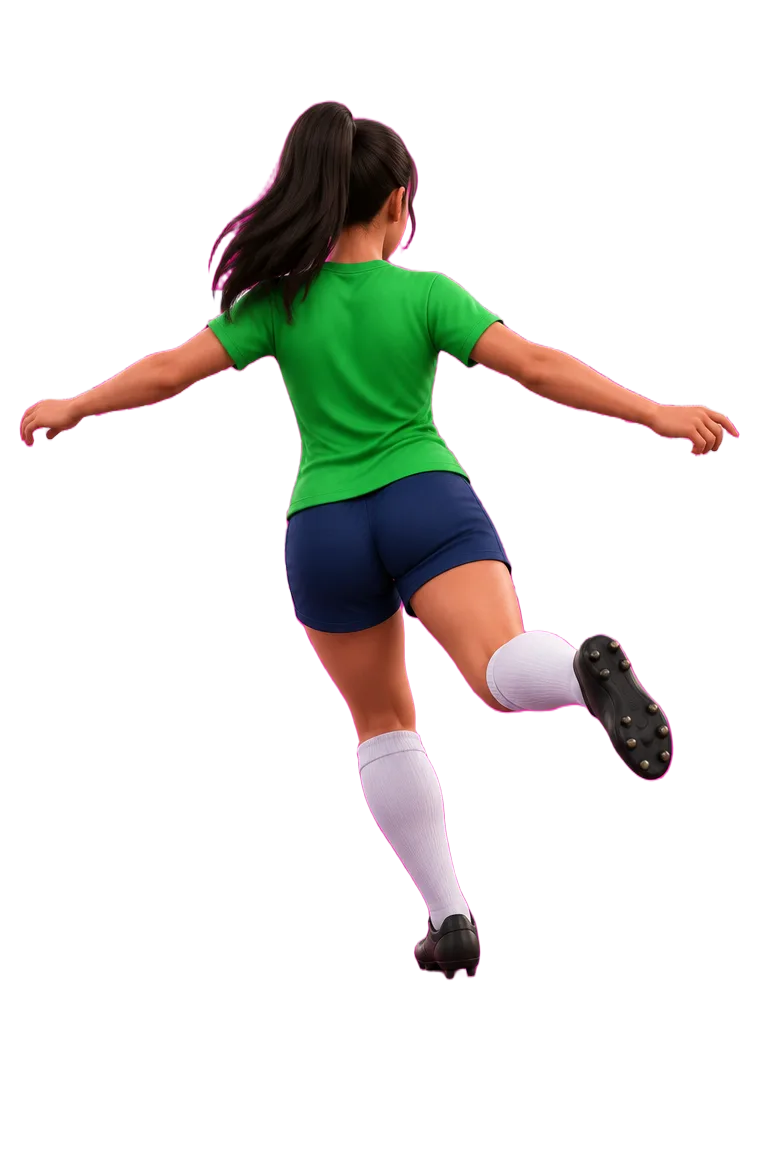
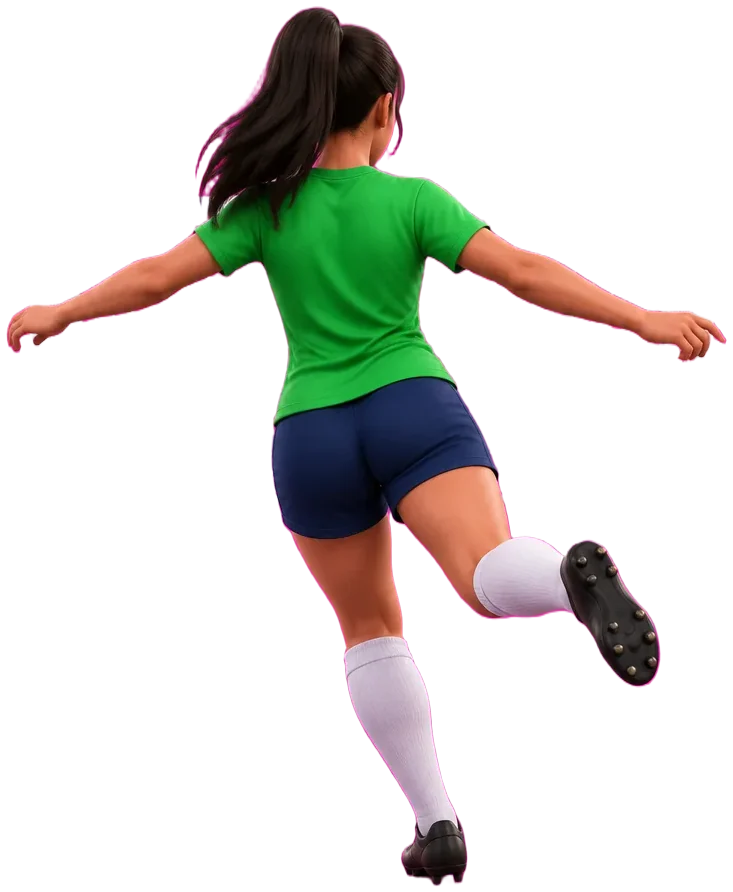
Penales ilustrado: estadio de noche, Jai arquero con 5 poses y pateadores con la camiseta de cada país
- Arco medido sobre la imagen del estadio (palos y travesaño calzan con el arco del juego)
- La estirada del Jai se centra en su cuerpo y no se sale del arco; vuela con las manos vacías y,
  si ataja, un instante con la pelota antes de festejar
- Pateadores recortados al cuerpo: misma escala en todas las poses, pies en el piso

Claude-Session: https://claude.ai/code/session_01Adx7ze53YEJ6gkWAUq6qtF

Changed region(s): [[0.0, 0.0, 0.9905, 0.9989]]

diff --git a/src/components/games/penalties/stadium.ts b/src/components/games/penalties/stadium.ts
@@ -96,14 +96,17 @@ function drawKeeper(now:number){
   const k=S.keeper,piso=G.y+G.h+6,dx=k.x-400,arriba=Math.min(0,k.y-278),res=S.phase==='result'?S.outcome:undefined;
   const listo=imagen(ARQUERO.listo);if(!listo){drawKeeperVector(now);return;}
   const idle=(S.phase==='aim'||S.phase==='power')&&!reduce?Math.sin(now/(S.knew?420:200))*(S.knew?6:16):0;
-  if(res==='save'){const at=imagen(ARQUERO.atajada)??listo;const bote=reduce?0:Math.abs(Math.sin(now/120))*10*Math.max(0,1-(now-(S.banner?.t??now))/1400);sombra(k.x,piso,48);sprite(at,k.x,piso-bote,190,190);return;}
+  // La estirada se centra en el cuerpo del arquero y nunca se sale del arco (ni por arriba del travesaño ni bajo el césped).
+  const volar=(es:CanvasImageSource,sinGiro=false)=>{const alto=200,cy=Math.max(G.y+alto*.32,Math.min(piso-alto*.28,k.y)),giro=sinGiro?0:Math.max(-.5,Math.min(.25,arriba/220))*Math.sign(dx);sombra(k.x,piso,70*k.stretch+30);sprite(es,k.x+Math.sign(dx)*20,cy+alto/2,alto,alto,dx<0,giro);};
+  if(res==='save'){const t=S.banner?now-S.banner.t:1e9,es=imagen(ARQUERO.estirada);if(t<380&&es&&Math.abs(dx)>24){volar(es);return;}const at=imagen(ARQUERO.atajada)??listo;const bote=reduce?0:Math.abs(Math.sin(now/120))*10*(S.banner?Math.max(0,1-(now-S.banner.t)/1400):0);sombra(k.x,piso,48);sprite(at,k.x,piso-bote,190,190);return;}
   if(res&&Math.abs(dx)>40){const ve=imagen(ARQUERO.vencido)??listo;sombra(k.x,piso,52);sprite(ve,k.x,piso+4,160,160,dx<0);return;}
-  if(S.phase==='shot'&&k.stretch>.18&&Math.abs(dx)>24){const es=imagen(ARQUERO.estirada);if(es){const alto=200,giro=Math.max(-.5,Math.min(.25,arriba/220))*Math.sign(dx);sombra(k.x,piso,70*k.stretch+30);sprite(es,k.x+Math.sign(dx)*20,piso-26+arriba-60*Math.min(1,k.stretch),alto,alto,dx<0,giro);return;}}
+  if(S.phase==='shot'&&k.stretch>.18&&Math.abs(dx)>24){const es=imagen(ARQUERO.estiradaSinPelota)??imagen(ARQUERO.estirada);if(es){volar(es);return;}}
   sombra(k.x+idle,piso,46);sprite(listo,k.x+idle,piso+arriba,180,180);
 }
 function drawShooter(now:number){const kit=S.kit??KIT_INICIAL,kick=S.phase==='shot'||S.phase==='result';
   const im=pateadorPintado(kit,kick?'patea':'listo')??(kick?pateadorPintado(kit,'listo'):null);if(!im){drawShooterVector(now);return;}
-  const alto=290,ancho=alto*im.width/im.height,sway=reduce||kick?0:Math.sin(now/400)*1.5;
+  // Los dibujos vienen recortados al cuerpo: la misma escala para todas las poses, con los pies en el piso.
+  const alto=im.height*.27,ancho=im.width*.27,sway=reduce||kick?0:Math.sin(now/400)*1.5;
   sombra(kick?372:330,H-6,56);sprite(im,(kick?372:330)+sway,H+10,alto,ancho);}
 function drawBall(){const b=S.ball;if(S.phase==='result'&&S.outcome==='save'&&imagen(ARQUERO.atajada))return;
   const pel=imagen(PELOTA);ctx.fillStyle=alpha('black', .25);ctx.beginPath();ctx.ellipse(b.x,Math.max(b.y+b.r,G.y+G.h-10)+4,b.r,b.r*.35,0,0,7);ctx.fill();

diff --git a/src/components/games/penalties/sprites.ts b/src/components/games/penalties/sprites.ts
@@ -14,6 +14,8 @@ function url(nombre: string): string | null {
 export const ARQUERO = {
   listo: url("jai-arquero-listo"),
   estirada: url("jai-arquero-estirada"),
+  /** La misma estirada con las manos vacías: para cuando la pelota todavía viaja o se le escapa. */
+  estiradaSinPelota: url("jai-arquero-estirada-sin-pelota"),
   atajada: url("jai-arquero-atajada"),
   vencido: url("jai-arquero-vencido"),
 };
@@ -25,9 +27,10 @@ export function pateador(f: Figura, pose: "listo" | "patea"): string | null {
 
 /**
  * Dónde está el arco dentro de estadio-noche.webp (en píxeles de la imagen), medido a mano.
+ * Medido sobre el borde de afuera de los palos y el travesaño, hasta donde los palos tocan el césped.
  * Si se cambia la imagen, hay que volver a medir: el arco del dibujo tiene que caer justo sobre el arco del juego.
  */
-export const ARCO_EN_ESTADIO = { x: 300, y: 220, w: 1000, h: 460 };
+export const ARCO_EN_ESTADIO = { x: 352, y: 349, w: 897, h: 295 };
 
 /* ------------------------------ carga de imágenes ------------------------------ */
 
